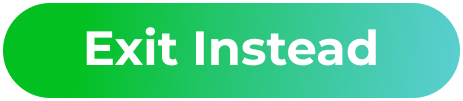
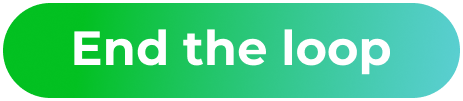
Compeleted as per the roadmap

Changed region(s): [[0.1512, 0.2673, 0.8467, 0.7426]]

diff --git a/window.py b/window.py
@@ -1,7 +1,9 @@
 """improting modules"""
 from tkinter import *
 
-
+"""Defining a new variable screen_break that 
+pops up the break screen as per the active and
+sleep time"""
 def screen_break(brTime):
     window = Tk()
     window.title('Prompt Window')
@@ -23,10 +25,10 @@ def screen_break(brTime):
     canvas.place(x = 0, y = 0)  #the canvas is at (0,0)
 
     """defining a new function i.e when the button is 
-    clicked it'll end the sessionand close the window"""
+    clicked it'll initialize the skip break"""
     def end_session():
         window.destroy()    #closes the window
-        print("Session ended")
+        print("Break skipped")
 
     """the background image prompt in
     accordasnce with 20-20-20 rule"""
@@ -35,8 +37,8 @@ def screen_break(brTime):
         750.0, 320,     #(x,y)
         image=background_img)
 
-    """attributes of button"""
-    img0 = PhotoImage(file = "image/img0.png")
+    """attributes of button 2"""
+    img0 = PhotoImage(file = "image/img1.png")
     b0 = Button(
         image = img0,
         borderwidth = 0,
@@ -46,16 +48,18 @@ def screen_break(brTime):
 
     """defining the co-ordinates of the button"""
     b0.place(
-        x = 526, y = 425,
+        x = 875, y = 425,
         width = 463,
         height = 101)
     
+    """"The function to compeletely terminate 
+    the programme"""
     def end_script():
         print("End of the loop")
         exit()
         
         
-
+    """attributes of the Button 2"""
     img1 = PhotoImage(file = "image/img0.png")
     b1 = Button(
         image = img1,
@@ -65,7 +69,7 @@ def screen_break(brTime):
         relief = "flat")
 
     b1.place(
-        x = 400, y = 400,
+        x = 170, y = 425,
         width = 463,
         height = 101)
 
@@ -75,5 +79,5 @@ def screen_break(brTime):
         image=copyright)
 
     window.resizable(False, False)
-    window.after(brTime*1000,lambda:window.destroy())
+    window.after(brTime*1000,lambda:window.destroy())   #After the scheduled time window.destroy() 
     window.mainloop()

diff --git a/index.py b/index.py
@@ -1,4 +1,4 @@
-#Imports
+"""Imports"""
 from math import floor
 import json
 import time
@@ -7,13 +7,9 @@ config_file = open('./config.json')
 config = json.load(config_file)
 
 
-# A small peice of code to send a push notification that the script has started
+"""# A small peice of code to send a push 
+notification that the script has started"""
 while True:
     print("Index loop interations")
     time.sleep(config["active"]*60)
-    # start_break()
-    # time.sleep(config["sleep"])
-    # kill_break()
-    # os.system(f'./window.py {config["sleep"]}')
-    # window(config["sleep"])
     screen_break(int(floor(config["sleep"])))

diff --git a/gui_time.py b/gui_time.py
@@ -60,7 +60,7 @@ root = Tk()
 root.geometry("600x500")
 root.resizable(False, False)
 root.title("Edit Time Settings")
-# root.iconbitmap('image\computer_icon.ico')
+root.iconbitmap('image\computer_icon.ico')
 
 # Defining different frames
 
